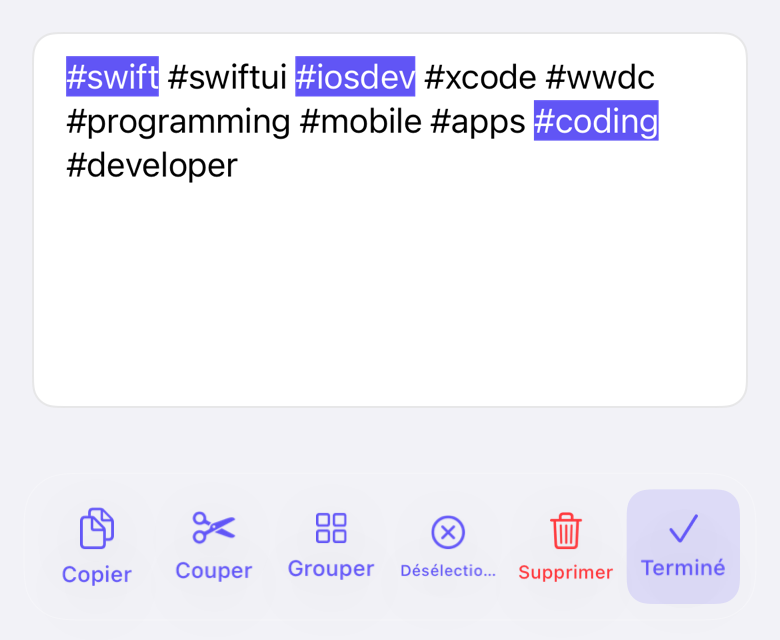
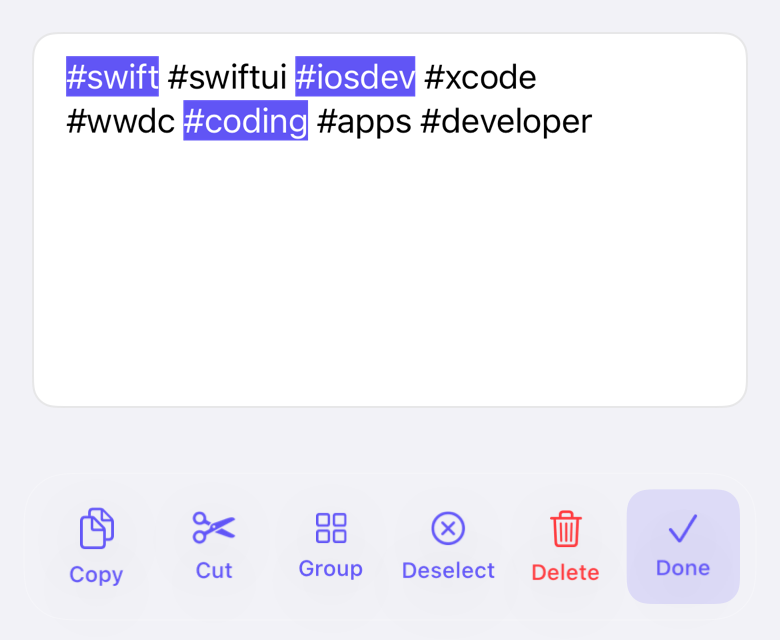
Seed the preview with duplicates so the canvas shows them auto-cleaned
The preview/action-bar sample text now contains #Swift (case duplicate),
a repeated #coding, and an invalid #!. beginSelection()/cleanUpHashtags()
removes them on load, so the canvas renders the de-duplicated list.

diff --git a/Sources/TapTagKit/Previews.swift b/Sources/TapTagKit/Previews.swift
@@ -13,9 +13,12 @@ private final class PreviewViewController: UIViewController {
         textView.configuration = config
 
         textView.font = .preferredFont(forTextStyle: .body)
+        // Seeded with duplicates (#Swift, a second #coding) and an invalid "#!".
+        // beginSelection() runs cleanUpHashtags() on load, so the canvas renders
+        // them already removed — a live proof of the auto clean-up.
         textView.text = """
-        #swift #swiftui #iosdev #xcode #wwdc
-        #programming #mobile #apps #coding #developer
+        #swift #swiftui #iosdev #Swift #xcode
+        #wwdc #coding #apps #! #coding #developer
         """
         textView.isScrollEnabled = false
         textView.textContainerInset = UIEdgeInsets(top: 12, left: 12, bottom: 12, right: 12)

diff --git a/Tests/TapTagKitTests/ActionBarSnapshotTests.swift b/Tests/TapTagKitTests/ActionBarSnapshotTests.swift
@@ -21,9 +21,10 @@ final class ActionBarSnapshotTests: XCTestCase {
         textView.configuration = config
         textView.font = .preferredFont(forTextStyle: .body)
         textView.text = """
-        #swift #swiftui #iosdev #xcode #wwdc
-        #programming #mobile #apps #coding #developer
+        #swift #swiftui #iosdev #Swift #xcode
+        #wwdc #coding #apps #! #coding #developer
         """
+        textView.cleanUpHashtags()   // removes #Swift, #!, the 2nd #coding
         textView.isScrollEnabled = false
         textView.backgroundColor = .systemBackground
         textView.textContainerInset = UIEdgeInsets(top: 12, left: 12, bottom: 12, right: 12)